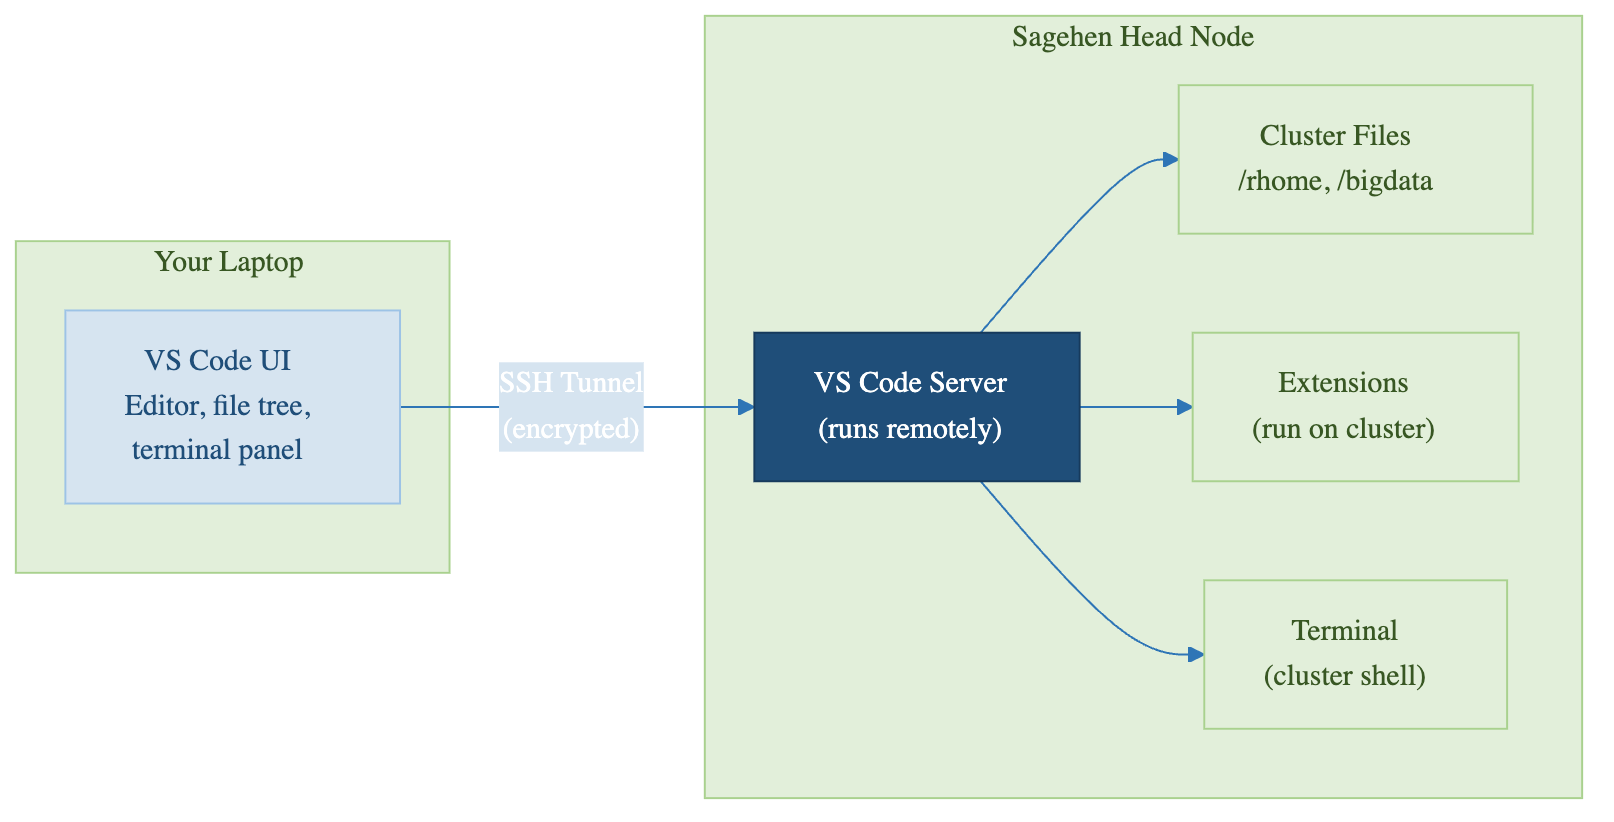
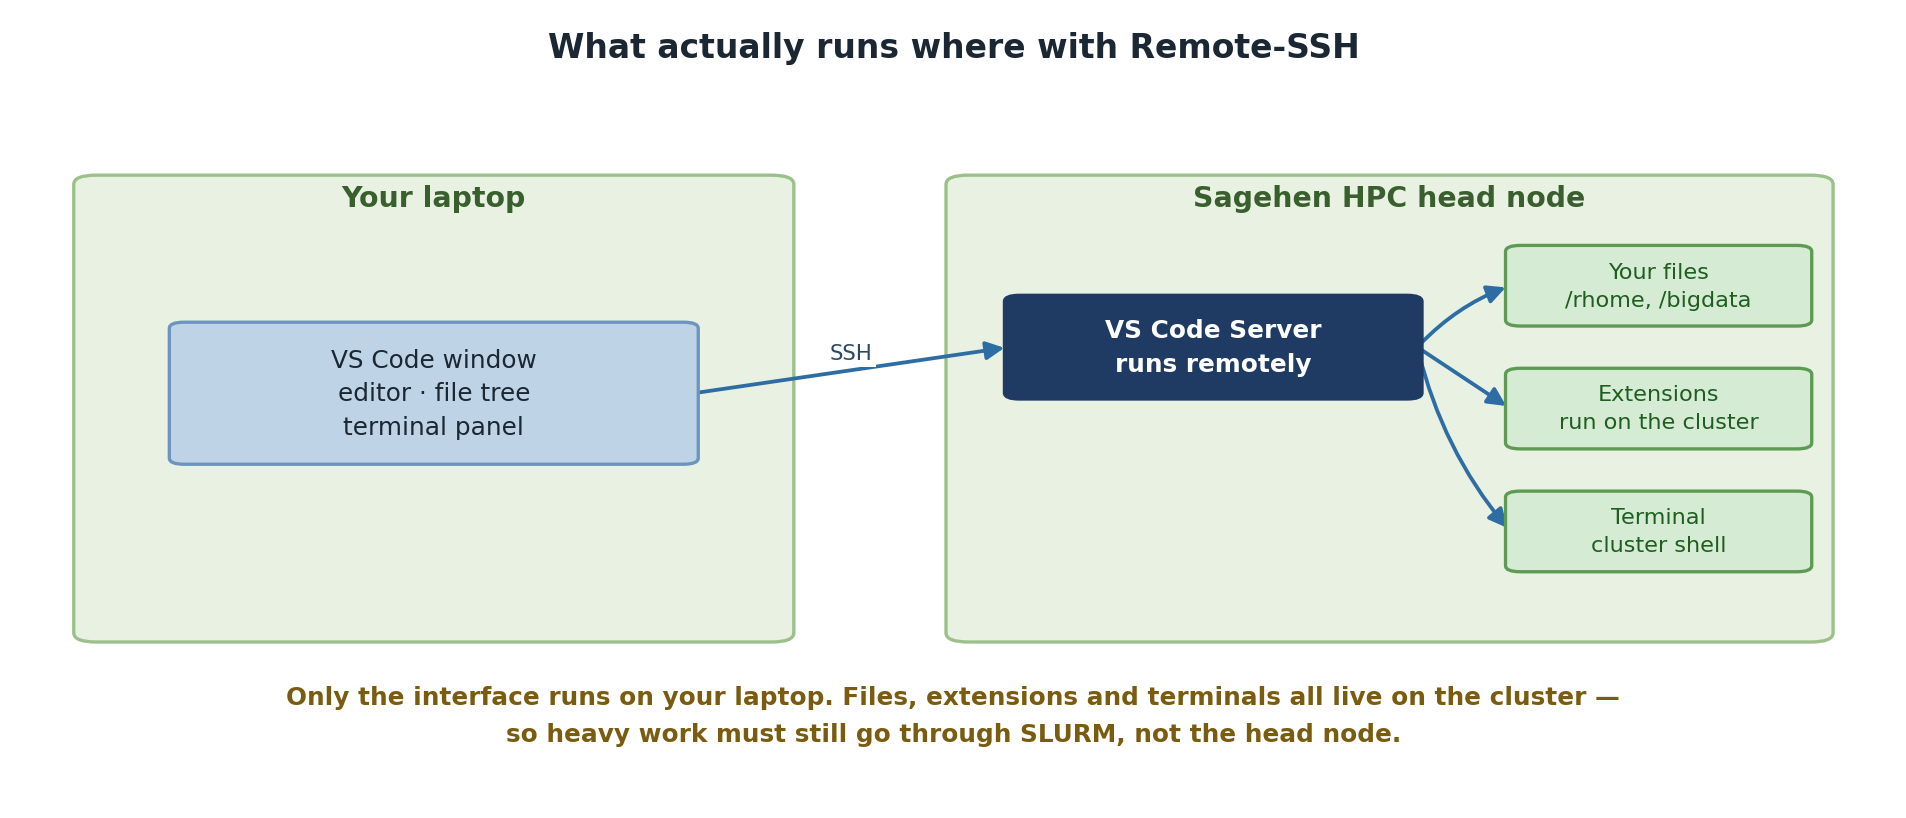
Rebuild and place the Remote-SSH architecture diagram
It was the workshop's only unreferenced image. Redrawn to make the point the
episode is arguing: only the interface runs locally, so heavy work still has to
go through SLURM rather than the head node.

diff --git a/episodes/01-why-remote.md b/episodes/01-why-remote.md
@@ -33,6 +33,8 @@ features while working on the cluster.
 Key insight: You are not editing files over SSH through a terminal emulator;
 VS Code creates a true two-way connection with full IDE capabilities.
 
+![The window is local; everything else is on the cluster.](fig/01-remote-architecture.png){alt='Two panels. On your laptop, the VS Code window provides the editor, file tree and terminal panel. Connected over SSH, the Sagehen HPC head node runs the VS Code Server, which in turn reaches your files in /rhome and /bigdata, extensions running on the cluster, and a terminal giving a cluster shell. A note explains that only the interface runs on your laptop, so heavy work must still go through SLURM rather than the head node.'}
+
 ## Comparison with Other Tools
 
 ::::::::::::::::::::::::::::::::::::: callout
